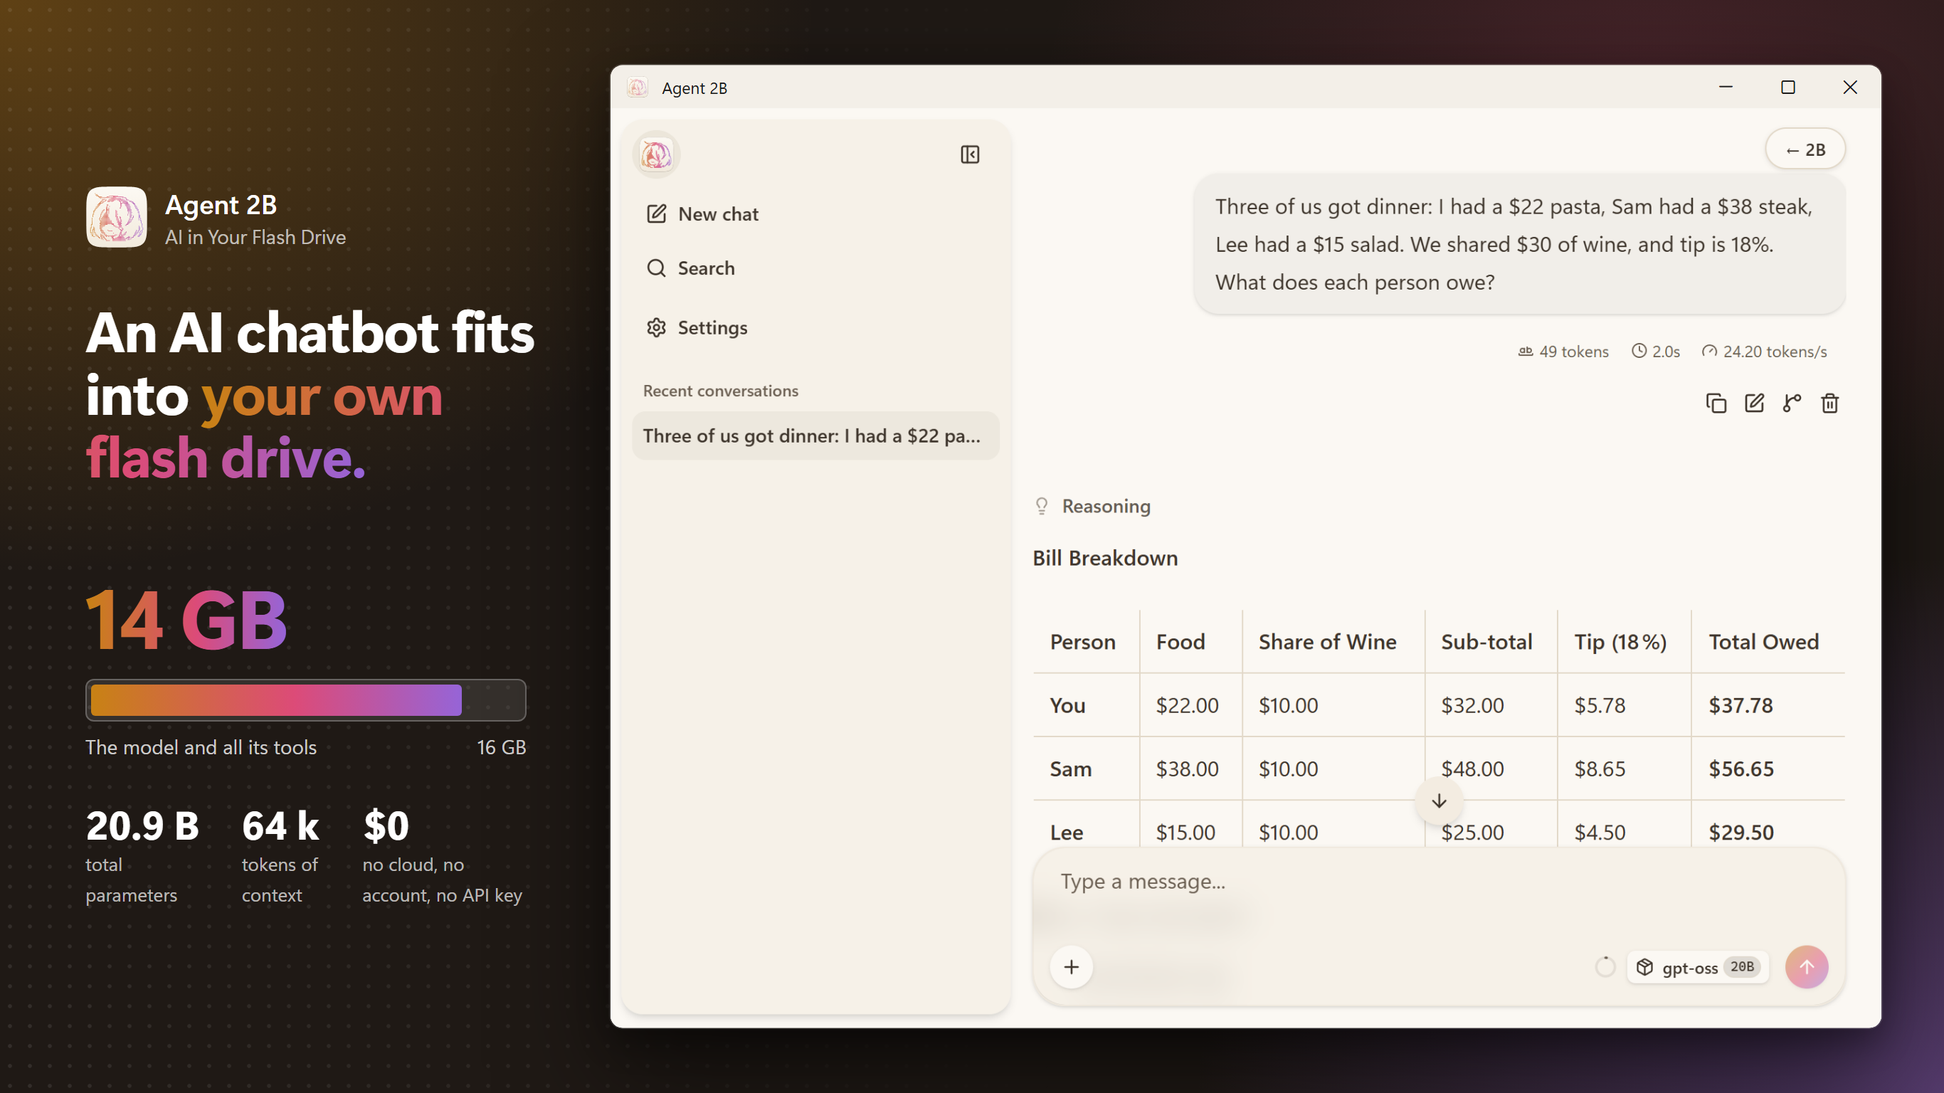
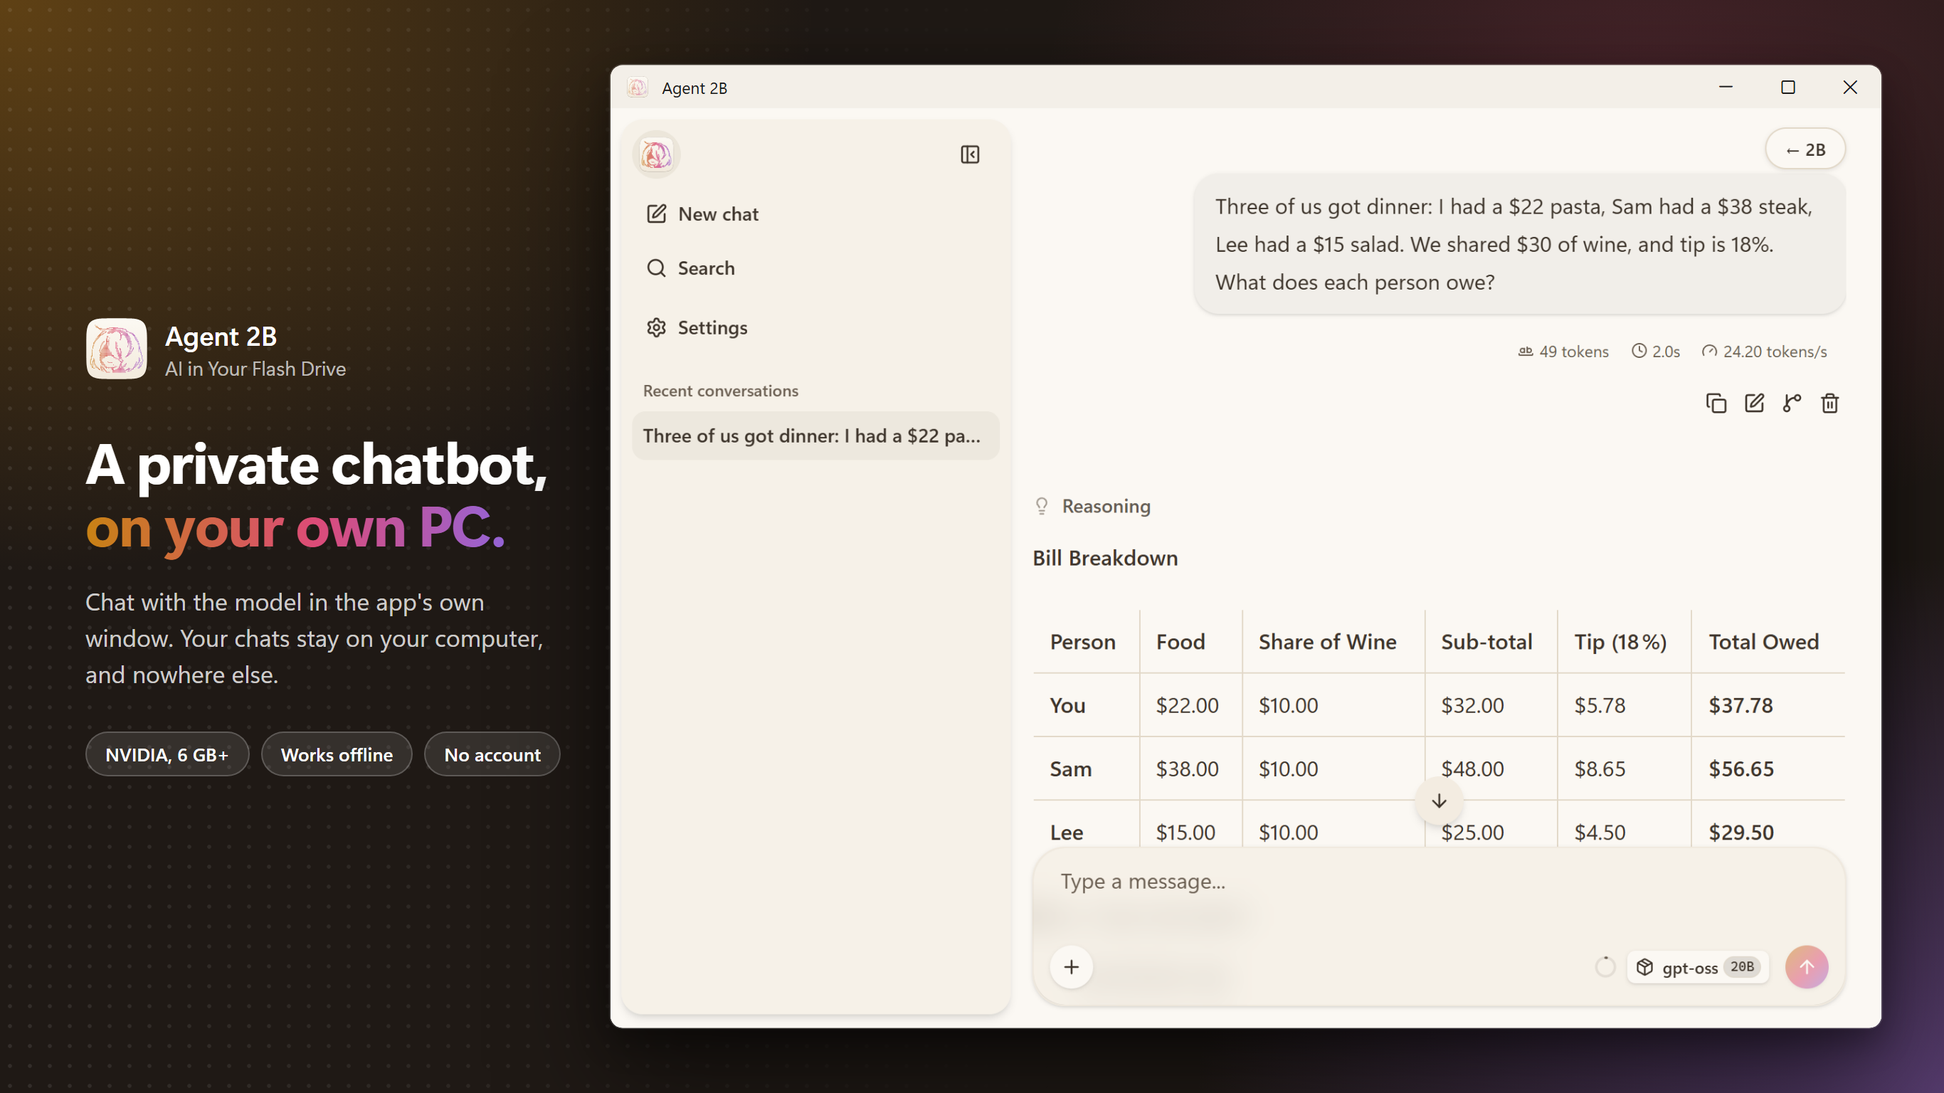
Store listing: lead with the customer's need, privacy policy as plain text
LISTING.md follows Partner Center's order (Properties, Store listings,
Submission options) and opens each field with the need it meets. The
privacy policy moves to store/PRIVACY.md as text to paste as-is, and
says WebView2's download page can open. The screenshots name the need
met, with the same fact pills on each. Download and Resume are named as
the window labels them.

Changed region(s): [[0.0311, 0.5312, 0.28, 0.8438], [0.0311, 0.2812, 0.28, 0.5], [0.0311, 0.1562, 0.1556, 0.25]]

diff --git a/store/shots.html b/store/shots.html
@@ -19,7 +19,8 @@
   .caption .app small { display: block; margin-top: 1px; font-size: 14px; font-weight: 400; color: rgba(255, 255, 255, 0.7); }
   h1 { margin: 0; font-size: 40px; line-height: 1.1; font-weight: 700; letter-spacing: -0.02em; }
   .caption p { margin: 20px 0 0; font: 400 17px/1.5 "Segoe UI Variable Text", "Segoe UI", sans-serif; color: rgba(255, 255, 255, 0.78); }
-  .facts { display: flex; flex-wrap: wrap; gap: 8px; margin-top: 28px; }
+  /* One row, though it may run a few pixels past the column. */
+  .facts { display: flex; gap: 8px; width: max-content; margin-top: 28px; }
   /* #promo: the size, big, over a 16 GB flash drive filled to it; then the other numbers. */
   .size { margin-top: 34px; width: 310px; }
   .size b { display: block; width: max-content; font-size: 58px; line-height: 1; font-weight: 700; letter-spacing: -0.03em; }
@@ -114,22 +115,27 @@ const GPUS = [
   <div class="tier ${tier}"><div class="verdict ${tier}"><b>${verdict}</b><span>${note}</span></div>
   <div class="gpus">${names.map(n => `<span>${n}</span>`).join("")}</div></div>`).join("");
 
-// Each shot: its caption, and what's in the window: a home page state, the demo at a time (s), or an image of the
-// window's contents at 940 x 680 (chat.png: a capture of the real Chat page, at 2x).
+// The same on every shot: what it needs, and what it doesn't.
+const FACTS = ["NVIDIA, 6 GB+", "Works offline", "No account"];
+
+// Each shot: its caption, the need it meets in the customer's words, and what's in the window: a home page state,
+// the demo at a time (s), or an image of the window's contents at 940 x 680 (chat.png: a capture of the real Chat
+// page, at 2x).
 const SHOTS = {
   promo: {
-    title: 'An AI coding agent fits into <span class="brand">your own flash drive.</span>',
+    title: 'An AI agent for your code, <span class="brand">kept on your PC.</span>',
+    text: "Ask about a project or your machine. It reads, runs and edits for you, asking first.",
     numbers: NUMBERS,
     demo: 10,
   },
   chat: {
-    title: 'An AI chatbot fits into <span class="brand">your own flash drive.</span>',
-    numbers: NUMBERS,
+    title: 'A private chatbot, <span class="brand">on your own PC.</span>',
+    text: "Chat with the model in the app's own window. Your chats stay on your computer, and nowhere else.",
     image: "chat.png",
   },
   home: {
-    title: 'Runs on <span class="brand">your gaming PC.</span>',
-    text: "No pricey workstation or data-center card. The GeForce you game on is enough, and 2B fits the model to it.",
+    title: 'Your gaming GPU <span class="brand">is all it needs.</span>',
+    text: "2B checks your GeForce before downloading, then fits the model to it.",
     numbers: GPUS,
     home: READY,
   },
@@ -141,7 +147,7 @@ document.getElementById("title").innerHTML = shot.title;
 document.getElementById("text").textContent = shot.text || "";
 if (!shot.text) document.getElementById("text").remove();
 document.getElementById("numbers").innerHTML = shot.numbers || "";
-document.getElementById("facts").innerHTML = (shot.facts || []).map(f => `<span>${f}</span>`).join("");
+document.getElementById("facts").innerHTML = FACTS.map(f => `<span>${f}</span>`).join("");
 const win = document.querySelector(".window");
 
 if (shot.image) {

diff --git a/store/LISTING.md b/store/LISTING.md
@@ -1,31 +1,71 @@
-# Microsoft Store listing — English (United States)
+# Microsoft Store submission — Agent 2B
 
-Everything to paste into Partner Center → Agent 2B → Store listing, in the page's order, then the other fields the
-submission asks for. Images are in [listing/](listing/), rendered by
-`powershell -ExecutionPolicy Bypass -File store\render.ps1`.
+Everything to paste into Partner Center → Agent 2B, in the submission's order: Properties, Store listings (English
+(United States)), Submission options. Pricing and availability, Age ratings and Packages are filled in Partner Center
+by hand. Images are in [listing/](listing/), rendered by `powershell -ExecutionPolicy Bypass -File store\render.ps1`.
 
-## Description
+## Properties
+
+- **Category:** Developer tools. **Subcategory:** none.
+- **Privacy policy:** paste [PRIVACY.md](PRIVACY.md) as it is; it's plain text, written for Partner Center's box.
+- **Website:** `https://github.com/chengmarc/agent-2b`
+- **Support contact info:** `https://github.com/chengmarc/agent-2b/issues`
+- **System requirements:** what the Store shows under the listing, and a warning on a PC that doesn't meet the
+  minimum. It doesn't stop the install; 2B's own check does that (`Requirements` in `src/app/app.cs`, which these
+  follow). Leave every other row unchecked: no touch, camera, microphone, Bluetooth or the like.
+
+  | | Minimum hardware | Recommended hardware |
+  |---|---|---|
+  | Keyboard | ✓ (the terminal is typed into) | |
+  | Memory | 16 GB | 16 GB |
+  | Video memory | 6 GB | the largest option offered (8 GB or more) |
+  | Processor | `64-bit (x64)` | |
+  | Graphics | `NVIDIA GTX 1060 6 GB or better, CUDA 12.4+` | `NVIDIA RTX, 8 GB VRAM or more` |
+  | DirectX | leave empty: 2B uses CUDA, not DirectX | |
+
+  Minimum memory is 16 GB, though 8 GB is enough with a 12 GB GPU: the Store has one value per row, and most PCs
+  with 8 GB of RAM can't run 2B. The text in Additional system requirements (below) says so.
+
+- **Product declarations:** none apply. Leave "This product has been tested to meet accessibility guidelines"
+  unchecked unless it has been.
+
+## Store listings — English (United States)
+
+### Description
 
 ```
-AI in Your Flash Drive.
+Use an AI coding agent without sending your code to the cloud, and without a subscription.
 
-Agent 2B is an AI coding agent that runs entirely on the gaming PC you already have. The model, gpt-oss-20b, runs on your NVIDIA GPU through llama.cpp, so what you ask and the files it reads never leave your PC. No account, no API key, no subscription.
+Agent 2B gives you a coding agent that runs on the gaming PC you already have. Point it at a project and it reads the code, edits files and runs commands for you on your own NVIDIA GPU, so what you ask and the files it reads never leave your PC. You don't need an account, an API key or a plan.
 
-Two ways in
-• Terminal: the coding agent in Git Bash. Point it at a project and it reads the code, edits files, runs commands, and searches the web when it needs to.
-• Chat: talk with the model in the app's own window. Your chats stay on your computer.
+Hand it a task in your project
+• Ask it to find a bug, explain a codebase, write a script or tidy a folder. It reads your files, runs commands in Git Bash and searches the web when it needs to.
+• Ask about your PC, too: "my C: drive is 97% full, what's eating the space?" gets you the biggest folders, first to last.
+• It reads your project's AGENTS.md or CLAUDE.md, so it follows the rules you've already written down.
 
-It asks first
-Anything that changes a file, runs a command or opens a web page waits for your yes. Edits are shown as a diff before they're made, and after a no you can tell it why. Reading files and searching your code don't need asking.
+Stay in control of every change
+• Anything that changes a file, runs a command or opens a web page waits for your yes.
+• You see each edit as a diff before it's made, and after a no you can tell it why.
+• Reading files and searching your code happen without asking, so simple questions stay quick.
 
-Runs on your gaming PC
-No workstation or data-center card needed: the GeForce you game on is enough, from a GTX 1060 6 GB to an RTX 5090. 2B checks your GPU before anything is downloaded, and tells you plainly if your PC can't run it. Then it splits the model between your GPU's memory and your RAM to fit whatever is free, so there's nothing to configure. Loading takes about 30 seconds.
+Talk it through in Chat
+• Ask everyday questions in the app's own window, as you would any chatbot.
+• Your chats are saved on your PC and nowhere else.
 
-One download
-The model is a 12 GB download from Hugging Face on first run. If it's interrupted, it resumes, even after a restart. After that the model works without an internet connection.
+Use the GPU you game on
+• You don't need a workstation or data-center card: a GeForce from a GTX 1060 6 GB to an RTX 5090 is enough.
+• Before anything downloads, the app checks your PC and tells you plainly whether it can run it.
+• There's nothing to configure: the model is split between your GPU's memory and your RAM to fit whatever is free. Loading takes about 30 seconds.
+
+Download once, then work offline
+• The model is a single 12 GB download from Hugging Face on first run. If it's interrupted, it resumes, even after a restart.
+• After that, you can work without an internet connection. Only web searches, and pages and commands you approve, go online.
+
+Free, with nothing to sign up for
+No account, no API key, no subscription, no ads and no telemetry.
 
 Know the limits
-gpt-oss-20b is a 20-billion-parameter model (about 3.6 billion active per token). It does well at small, scoped tasks in a codebase or on your machine; give it tight tasks rather than open-ended ones.
+The model is gpt-oss-20b: 20 billion parameters, about 3.6 billion active per token. You'll get the best results from small, scoped tasks in a codebase or on your machine; give it tight tasks rather than open-ended ones.
 
 Requirements
 • Windows 10 or 11, 64-bit
@@ -37,40 +77,41 @@ Requirements
 AMD and Intel graphics aren't supported.
 
 Agent 2B is open source under the Apache 2.0 license.
+
+NVIDIA, GeForce, GTX and RTX are trademarks of NVIDIA Corporation. Agent 2B is an independent project, not affiliated with or endorsed by NVIDIA, OpenAI or Hugging Face.
 ```
 
-## What's new in this version
+### What's new in this version
 
 Leave blank: this is the first submission.
 
-## Product features
+### Product features
 
-One per line in Partner Center ("Add more" for each):
+One per line in Partner Center ("Add more" for each); each finishes "With this app, you can …":
 
 ```
-An AI coding agent that runs on your gaming PC
-No workstation card needed: the GeForce you game on is enough
-Nothing you ask or open is sent to an AI service
-No account, no API key, no subscription
-Terminal: reads, edits and runs things in your projects
-Chat: talk with the model in the app's window
-Asks before every edit, command and web page; edits shown as a diff
-Checks your PC before downloading anything
-Fits the model to your GPU and RAM automatically
-One 12 GB model download that resumes if interrupted
-Works offline once the model is downloaded
-Open source (Apache 2.0)
+Hand an AI coding agent tasks in your projects: it reads, edits and runs commands
+Keep your code on your PC: nothing you ask or open is sent to an AI service
+Approve every edit, command and web page first, with each edit shown as a diff
+Use the GeForce you game on, from a GTX 1060 6 GB to an RTX 5090
+Chat with the model in the app's own window, with your chats saved only on your PC
+Find out whether your PC can run it before anything downloads
+Skip the setup: the model is fitted to your GPU and RAM automatically
+Resume the 12 GB model download if it's interrupted, even after a restart
+Work offline once the model is downloaded
+Use it with no account, no API key and no subscription
+Read and change every line: it's open source under Apache 2.0
 ```
 
-## Screenshots
+### Screenshots
 
 Upload in this order (the first is shown first):
 
-1. `listing/screenshot-1-promo.png`: the coding agent
-2. `listing/screenshot-2-chat.png`: the chatbot
-3. `listing/screenshot-3-home.png`: the GPUs it runs on
+1. `listing/screenshot-1-promo.png`: an AI agent for your code that stays on your PC (the terminal)
+2. `listing/screenshot-2-chat.png`: everyday questions answered on your PC (Chat)
+3. `listing/screenshot-3-home.png`: will my PC run it? (the GPUs it runs on, and the home page)
 
-## Store logos
+### Store logos
 
 | Slot | File |
 |---|---|
@@ -79,32 +120,32 @@ Upload in this order (the first is shown first):
 | 1:1 App tile icon (300 × 300) | `listing/store-logo-300.png` |
 | 150 × 150, 71 × 71 | Leave empty; the Store takes them from the package. |
 
-## Trailers, Xbox images
+### Trailers, Xbox images
 
-Leave empty.
+Leave empty: 2B has no trailer, and isn't an Xbox app.
 
-## Supplemental fields
+### Supplemental fields
 
-- **Short title:** leave empty.
-- **Voice title:** leave empty.
+- **Short title:** leave empty; "Agent 2B" is short already.
+- **Voice title:** leave empty, for the same reason.
 - **Short description** (270 characters or fewer):
 
   ```
-  AI in Your Flash Drive: a coding agent that runs on your gaming PC. It reads, edits and runs things in your projects, asking before every change, and nothing you ask leaves your PC. No account, no API key, no subscription. Needs an NVIDIA GPU with 6 GB+ of VRAM.
+  Use an AI coding agent without sending your code to the cloud. It reads, edits and runs things in your projects on your own GeForce GPU, asking before every change. No account, no subscription. Needs an NVIDIA GPU with 6 GB+ of video memory.
   ```
 
-## Additional information
+### Additional information
 
 - **Keywords** (up to 7, 40 characters each, 21 words in all):
 
   ```
+  AI coding agent
   local AI
   offline AI
-  AI coding agent
   local LLM
+  private AI assistant
   gpt-oss
   llama.cpp
-  private AI assistant
   ```
 
 - **Additional system requirements** (each line one item, 200 characters each):
@@ -126,46 +167,23 @@ Leave empty.
   With 16 GB of video memory, the whole model runs on the GPU
   ```
 
-- **Copyright and trademark info:** `© 2026 chengmarc`
+- **Copyright and trademark info:**
+
+  ```
+  © 2026 chengmarc. NVIDIA, GeForce, GTX and RTX are trademarks of NVIDIA Corporation.
+  ```
+
 - **Additional license terms:** `Apache License 2.0: https://github.com/chengmarc/agent-2b/blob/main/LICENSE`
 - **Developed by:** `chengmarc`
 
-## Properties
-
-- **Category:** Developer tools. **Subcategory:** none.
-- **Privacy policy URL:** `https://github.com/chengmarc/agent-2b/blob/main/PRIVACY.md`
-- **Website:** `https://github.com/chengmarc/agent-2b`
-- **Support contact info:** `https://github.com/chengmarc/agent-2b/issues`
-- **System requirements:** what the Store shows under the listing, and a warning on a PC that doesn't meet the
-  minimum. It doesn't stop the install; 2B's own check does that (`Requirements` in `src/app/app.cs`, which these
-  follow). Leave every other row unchecked: no touch, camera, microphone, Bluetooth or the like.
-
-  | | Minimum hardware | Recommended hardware |
-  |---|---|---|
-  | Keyboard | ✓ (the terminal is typed into) | |
-  | Memory | 16 GB | 16 GB |
-  | Video memory | 6 GB | the largest option offered (8 GB or more) |
-  | Processor | `64-bit (x64)` | |
-  | Graphics | `NVIDIA GTX 1060 6 GB or better, CUDA 12.4+` | `NVIDIA RTX, 8 GB VRAM or more` |
-  | DirectX | leave empty: 2B uses CUDA, not DirectX | |
-
-  Minimum memory is 16 GB, though 8 GB is enough with a 12 GB GPU: the Store has one value per row, and most PCs
-  with 8 GB of RAM can't run 2B. The text in Additional system requirements (above) says so.
-
-- **Product declarations:** none apply. Leave "This product has been tested to meet accessibility guidelines" unchecked unless it has been.
-
-## Age ratings
-
-In the questionnaire, the parts that apply: the app lets users talk with an AI model that generates text (Chat), and
-it can open web pages and search the web, both after the user approves them. It has no user-to-user communication,
-no purchases and no location sharing.
-
 ## Submission options
 
+- **Publishing hold options:** publish as soon as it passes certification, unless a launch post is planned; then
+  hold it and publish on a weekday morning (US time), when developers browse the Store and GitHub most.
 - **Restricted capabilities → runFullTrust:**
 
   ```
-  Agent 2B is a desktop app built from a Win32 launcher (2B.exe) that starts Node.js, Git Bash and llama.cpp, packaged with the Desktop Bridge. runFullTrust is required for any packaged Win32 desktop app to launch its executable (EntryPoint="Windows.FullTrustApplication"). It runs the model locally on the user's GPU and opens a terminal where the coding agent works in the user's projects, asking before every file change, command and web page.
+  Agent 2B is a desktop app built with C# (Windows Forms and WebView2), packaged with the Desktop Bridge. runFullTrust is required for any packaged Win32 desktop app to launch its executable (EntryPoint="Windows.FullTrustApplication"). It is used only to run the app itself: 2B.exe, and the llama.cpp model server, Node.js and Git Bash it ships with. It reads and writes files only in the folders the user works in, asking before every change, and it has no telemetry.
   ```
 
 - **Restricted capabilities → unvirtualizedResources:**
@@ -177,5 +195,5 @@ no purchases and no location sharing.
 - **Notes for certification:**
 
   ```
-  No account or sign-in is needed. Agent 2B needs an NVIDIA GPU with 6 GB of video memory or more and CUDA 12.4 or later; on a PC without one, the window says so (System: "No GPU Detected" or "Not Supported") and nothing is downloaded. On a supported PC: click Download model (12 GB from Hugging Face; it resumes if interrupted). Once the Server row says Ready, click Chat to talk with the model in the window, or Terminal to open the coding agent in Git Bash. Try "list the files in this folder" in Terminal; it asks before running the command (answer y).
+  No account or sign-in is needed, and there's nothing to configure: 2B picks the model (gpt-oss-20b) and its settings itself. On a supported PC (an NVIDIA GPU with 6 GB of video memory or more and CUDA 12.4 or later): 1. Click Download in the Model row (12 GB from Hugging Face; if it's interrupted, click Resume). 2. Wait until the Server row says Ready (about 30 seconds). 3. Click Terminal and type "list the files in this folder"; it asks before running the command (answer y) and then lists them. Or click Chat and ask a question in the window. On a PC without a supported GPU, the System row says "No GPU Detected" or "Not Supported" with the reason, and nothing is downloaded.
   ```

diff --git a/store/PRIVACY.md b/store/PRIVACY.md
@@ -1,0 +1,37 @@
+Agent 2B Privacy Policy
+Last updated: October 15, 2026
+
+This policy covers Agent 2B everywhere it ships: the Microsoft Store edition, the portable version on GitHub, and running from source.
+
+Summary
+
+Agent 2B does not collect, store or share personal information. The AI model runs on your own computer, and what you ask it, the files it reads and its answers are never sent to the developer or to any AI service.
+
+What the App Does With Data
+
+• No telemetry. Agent 2B has no analytics, crash reporting, advertising, accounts or update checks.
+• The model runs locally. Your requests, the files the agent reads and the model's answers are processed on your computer by llama.cpp.
+• Conversations in the terminal aren't saved: they're gone when you close the window or type /clear. Conversations in Chat are kept on your computer, in Agent 2B's data folder (below), so you can return to them. Delete them from the chat page, or delete the data folder's "browser" folder.
+
+Agent 2B goes online only in these cases:
+
+• Downloading the model. When you click Download in the Model row, the model is downloaded from Hugging Face (huggingface.co).
+• Web search. When the agent searches the web, the search query is sent to DuckDuckGo (duckduckgo.com).
+• Web pages. The agent opens a web page only after you approve it.
+• Commands. Commands the agent runs, such as git or npm, can go online. Agent 2B asks before running each one, unless you've answered "always" in that session.
+• WebView2. If your PC doesn't have the Microsoft Edge WebView2 Runtime, Agent 2B opens Microsoft's download page in your browser.
+
+These requests go to the services named, under their own privacy policies.
+
+Files on your computer. Agent 2B reads and writes files in the folders you work in, asking before every change. It keeps the model, the Chat history, the model server's log and its load time on your computer:
+
+• Microsoft Store edition: %LOCALAPPDATA%\Packages\<package>\LocalCache\, removed when you uninstall the app.
+• Portable version: the data folder beside 2B.exe.
+
+Changes to This Policy
+
+If this policy changes, the new version will be posted here and the "Last updated" date will change.
+
+Contact
+
+Questions about this policy can go to the project's issue tracker: https://github.com/chengmarc/agent-2b/issues
